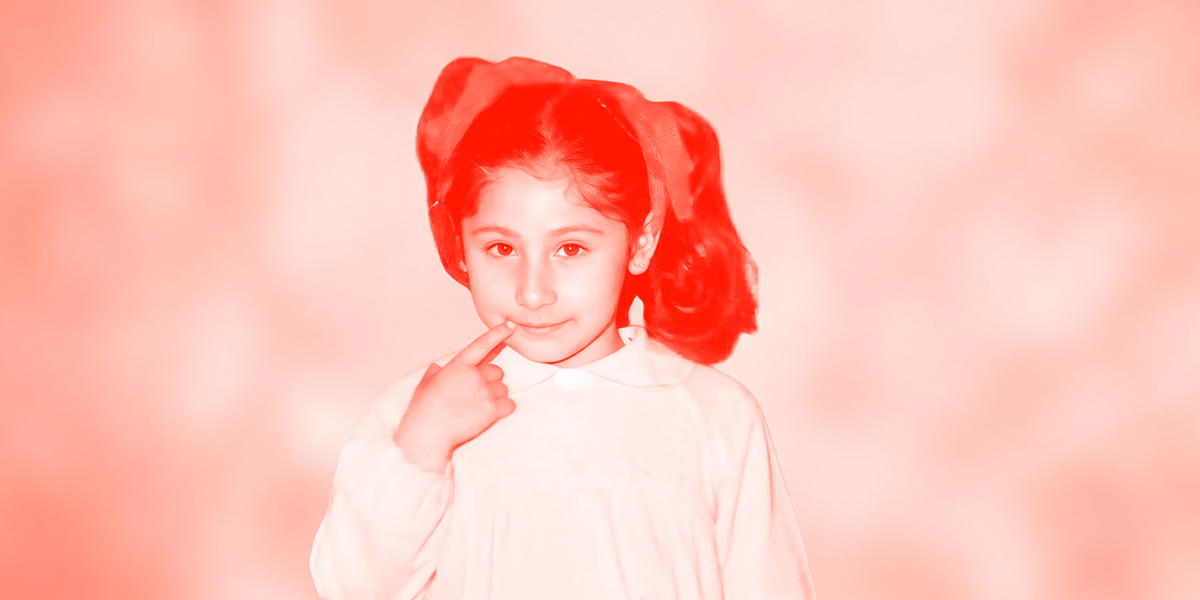
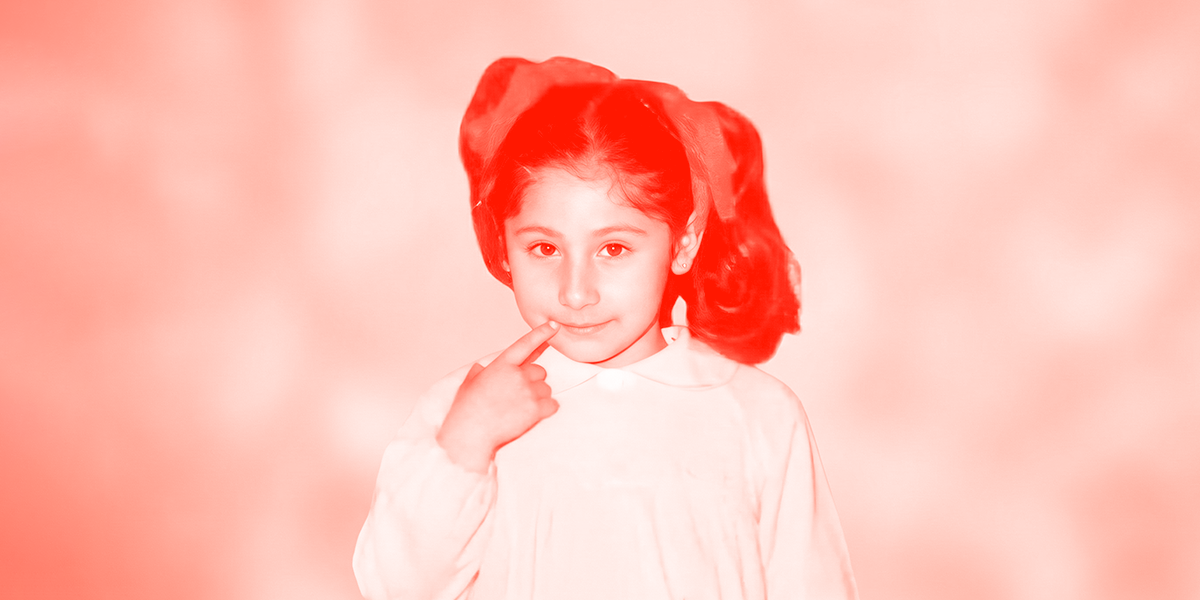
Cambio div x section imagenhero, Ajuste img

diff --git a/index.html b/index.html
@@ -19,10 +19,10 @@
          </nav>
       </header>
       <main>
-         <!-- posiblemente lo pase a img acá, reconsidero que es importante como para ser div -->
-         <div class="fotohero">
-         </div>
-         <!-- posiblemente lo pase a img acá, reconsidero que es importante como para ser div -->
+         <section class="imagenheroe">
+            <img 
+               src="img/foto-hero.png" alt="Foto de Cecilia Gómez de pequeña" width="1200" height="600" class="fotoheroe">
+         </section>
          <section class="intro">
             <p>➍➄➊➒➑➏  Tauro ♡ Aries ➚ Sagitario ✦ BA ARG ✦ Tigre de Fuego ♡ Gallina y Tallarina ★ The Smiths ❤ La Capitana ™</p>
          </section>

diff --git a/style.css b/style.css
@@ -130,13 +130,17 @@ header {
 /* -------------------- */
 
 
-.fotohero {
-	width: 100%;
-	height: 30rem;
-	background-size: cover;
-	background-position: center;
-	background-repeat: no-repeat;
-	background-image: url("img/foto-hero.png");
+.imagenheroe {
+  width: 100%;
+  height: 600px;
+  overflow: hidden;
+}
+
+.fotoheroe {
+  width: 100%;
+  height: 100%;
+  object-fit: cover;
+  display: block;
 }
 
 .intro p {
